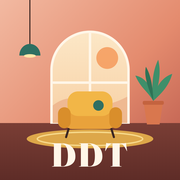
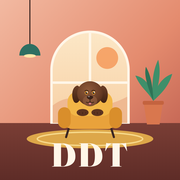
Devoirs DDT : chiens
Claude-Session: https://claude.ai/code/session_01PKGA1Hemj2n1h96h4dVzye

Changed region(s): [[0.3889, 0.4444, 0.6111, 0.6667]]

diff --git a/devoirs/ddt/index.html b/devoirs/ddt/index.html
@@ -109,9 +109,11 @@ svg { flex: 0 0 auto; }
 .animal { flex: 0 0 auto; display: block; }
 .chip .animal { width: 22px; height: 22px; margin-left: -4px; }
 .hw-meta .subj .animal { margin-right: 1px; }
-.animals { display: grid; grid-template-columns: repeat(4, 1fr); gap: 8px; }
+.animals { display: grid; grid-template-columns: repeat(3, 1fr); gap: 10px; }
 .animal-btn { border: 1.5px solid var(--line); background: var(--card); border-radius: 14px; padding: 8px 4px 6px; display: flex; flex-direction: column; align-items: center; gap: 4px; }
-.animal-btn small { font-size: 12px; font-weight: 700; color: var(--ink-2); }
+.animal-btn { position: relative; }
+.animal-btn small { font-size: 12px; font-weight: 700; color: var(--ink-2); text-align: center; line-height: 1.15; }
+.animal-btn .star { position: absolute; top: -8px; right: -4px; font-style: normal; font-size: 11px; font-weight: 800; background: var(--accent); color: #fff; border-radius: 999px; padding: 2px 7px; }
 .animal-btn[aria-pressed="true"] { border-color: var(--accent); box-shadow: 0 0 0 2px var(--accent); }
 
 /* Version DDT : tout en rose. */
@@ -279,23 +281,61 @@ const dueClass = (s, done) => (done || !s ? '' : daysLeft(s) < 0 ? 'late' : days
 const subject = (id) => db.subjects.find((x) => x.id === id) || null;
 // Texte lisible sur fond clair, dans la couleur de la matière.
 const inkOf = (c) => `color-mix(in srgb, ${c} 82%, #000)`;
-// ---------- Animaux (version DDT) : chaque matière a son petit animal ----------
+// ---------- Chiens (version DDT) : chaque matière a son chien, dans ses vraies couleurs ----------
 const ANIMALS_ON = document.documentElement.dataset.theme === 'ddt';
-const EYES = (y = 17, dx = 4.2) => `<circle cx="${16 - dx}" cy="${y}" r="1.6" fill="#2B1B24"/><circle cx="${16 + dx}" cy="${y}" r="1.6" fill="#2B1B24"/>`;
-const ANIMALS = {
-  chat: { name: 'Chat', svg: (c) => `<path d="M6 9 L9.5 3.5 L13 8.5 M26 9 L22.5 3.5 L19 8.5" fill="${c}" stroke="${c}" stroke-width="2" stroke-linejoin="round"/><circle cx="16" cy="17.5" r="10.5" fill="${c}"/>${EYES(16.5)}<path d="M14.6 20.2 h2.8 l-1.4 1.6z" fill="#F7A1BC"/><path d="M8 20h4M8 22.2l4-.8M24 20h-4M24 22.2l-4-.8" stroke="#fff" stroke-width=".9" stroke-linecap="round" opacity=".9"/>` },
-  lapin: { name: 'Lapin', svg: (c) => `<ellipse cx="11.5" cy="7.5" rx="3" ry="7" fill="${c}"/><ellipse cx="20.5" cy="7.5" rx="3" ry="7" fill="${c}"/><ellipse cx="11.5" cy="8" rx="1.4" ry="4.6" fill="#F7C6D6"/><ellipse cx="20.5" cy="8" rx="1.4" ry="4.6" fill="#F7C6D6"/><circle cx="16" cy="19.5" r="9.5" fill="${c}"/>${EYES(18.5, 3.8)}<ellipse cx="16" cy="22" rx="1.5" ry="1.1" fill="#F7A1BC"/>` },
-  renard: { name: 'Renard', svg: (c) => `<path d="M5 6 L11 10 L6 16 Z M27 6 L21 10 L26 16 Z" fill="${c}"/><path d="M5 11 Q16 6 27 11 Q25 24 16 28 Q7 24 5 11Z" fill="${c}"/><path d="M8.5 17 Q12 18 16 28 Q20 18 23.5 17 Q20 23 16 28 Q12 23 8.5 17Z" fill="#FFF4F2"/>${EYES(15.5, 4.5)}<circle cx="16" cy="25" r="1.4" fill="#2B1B24"/>` },
-  ours: { name: 'Ours', svg: (c) => `<circle cx="8" cy="9" r="4.2" fill="${c}"/><circle cx="24" cy="9" r="4.2" fill="${c}"/><circle cx="16" cy="18" r="11" fill="${c}"/>${EYES(16)}<ellipse cx="16" cy="22" rx="4.6" ry="3.5" fill="#FFF1E8"/><ellipse cx="16" cy="20.8" rx="1.7" ry="1.2" fill="#2B1B24"/>` },
-  panda: { name: 'Panda', svg: (c) => `<circle cx="8" cy="9" r="4.2" fill="${c}"/><circle cx="24" cy="9" r="4.2" fill="${c}"/><circle cx="16" cy="18" r="11" fill="#FFFDFB" stroke="${c}" stroke-width="1.4"/><ellipse cx="11.5" cy="17" rx="3" ry="3.8" fill="${c}" transform="rotate(-20 11.5 17)"/><ellipse cx="20.5" cy="17" rx="3" ry="3.8" fill="${c}" transform="rotate(20 20.5 17)"/><circle cx="11.8" cy="16.8" r="1.2" fill="#fff"/><circle cx="20.2" cy="16.8" r="1.2" fill="#fff"/><ellipse cx="16" cy="22.3" rx="1.7" ry="1.2" fill="#2B1B24"/>` },
-  hibou: { name: 'Hibou', svg: (c) => `<path d="M6 8 L10 11 M26 8 L22 11" stroke="${c}" stroke-width="2.4" stroke-linecap="round"/><path d="M6 12 Q6 6 16 7 Q26 6 26 12 V22 Q26 29 16 29 Q6 29 6 22Z" fill="${c}"/><circle cx="11.5" cy="15" r="4.3" fill="#FFF8F2"/><circle cx="20.5" cy="15" r="4.3" fill="#FFF8F2"/><circle cx="11.5" cy="15.2" r="2" fill="#2B1B24"/><circle cx="20.5" cy="15.2" r="2" fill="#2B1B24"/><path d="M14.5 19 h3 l-1.5 2.6z" fill="#F4B24A"/><path d="M11 24 q5 3 10 0" stroke="#FFF8F2" stroke-width="1.2" fill="none" opacity=".7"/>` },
-  grenouille: { name: 'Grenouille', svg: (c) => `<circle cx="10" cy="10" r="4.8" fill="${c}"/><circle cx="22" cy="10" r="4.8" fill="${c}"/><ellipse cx="16" cy="19" rx="12" ry="9" fill="${c}"/><circle cx="10" cy="9.6" r="2.6" fill="#fff"/><circle cx="22" cy="9.6" r="2.6" fill="#fff"/><circle cx="10" cy="9.8" r="1.4" fill="#2B1B24"/><circle cx="22" cy="9.8" r="1.4" fill="#2B1B24"/><path d="M9 20 Q16 26 23 20" stroke="#2B1B24" stroke-width="1.4" fill="none" stroke-linecap="round"/><circle cx="7.5" cy="18.5" r="1.6" fill="#F7A1BC" opacity=".8"/><circle cx="24.5" cy="18.5" r="1.6" fill="#F7A1BC" opacity=".8"/>` },
-  cochon: { name: 'Cochon', svg: (c) => `<path d="M6 9 L8 4.5 L12.5 7.5 M26 9 L24 4.5 L19.5 7.5" fill="${c}" stroke="${c}" stroke-width="2" stroke-linejoin="round"/><circle cx="16" cy="17.5" r="10.5" fill="${c}"/>${EYES(15)}<ellipse cx="16" cy="21" rx="4.6" ry="3.4" fill="#FFFFFF" opacity=".55"/><ellipse cx="14.4" cy="21" rx=".9" ry="1.3" fill="#2B1B24"/><ellipse cx="17.6" cy="21" rx=".9" ry="1.3" fill="#2B1B24"/>` },
+// Une tête de chien de face, avec du volume (dégradés), des yeux brillants et une truffe luisante.
+function dogSvg(k, d) {
+  const id = 'dg-' + k;
+  const ears = {
+    flop: `<path d="M13 22 C4 24 3 40 8 47 C12 51 17 46 18 38 C19 31 19 25 13 22Z" fill="url(#${id}e)"/><path d="M51 22 C60 24 61 40 56 47 C52 51 47 46 46 38 C45 31 45 25 51 22Z" fill="url(#${id}e)"/>`,
+    long: `<path d="M14 21 C3 24 2 46 8 55 C12 60 18 54 19 44 C20 33 20 25 14 21Z" fill="url(#${id}e)"/><path d="M50 21 C61 24 62 46 56 55 C52 60 46 54 45 44 C44 33 44 25 50 21Z" fill="url(#${id}e)"/>`,
+    prick: `<path d="M12 27 L15 6 C17 3 20 4 22 7 L29 19Z" fill="url(#${id}e)"/><path d="M52 27 L49 6 C47 3 44 4 42 7 L35 19Z" fill="url(#${id}e)"/><path d="M16 20 L17.5 10 L24 18Z M48 20 L46.5 10 L40 18Z" fill="${d.inner || '#E8B8A8'}" opacity=".8"/>`,
+    bat: `<path d="M11 28 C6 18 7 6 13 4 C19 3 25 12 27 20Z" fill="url(#${id}e)"/><path d="M53 28 C58 18 57 6 51 4 C45 3 39 12 37 20Z" fill="url(#${id}e)"/><path d="M13 21 C11 15 12 9 14.5 8 C17.5 8 21 13 22.5 18Z M51 21 C53 15 52 9 49.5 8 C46.5 8 43 13 41.5 18Z" fill="${d.inner || '#E3A99A'}" opacity=".85"/>`,
+    fold: `<path d="M14 18 C9 16 6 20 8 26 C10 31 15 31 19 26 C21 22 19 19 14 18Z" fill="url(#${id}e)"/><path d="M50 18 C55 16 58 20 56 26 C54 31 49 31 45 26 C43 22 45 19 50 18Z" fill="url(#${id}e)"/>`,
+  }[d.ear];
+  const snoutY = d.long ? 47 : 45;
+  return `<defs>
+    <radialGradient id="${id}h" cx=".42" cy=".35" r=".75"><stop offset="0" stop-color="${d.light}"/><stop offset=".65" stop-color="${d.fur}"/><stop offset="1" stop-color="${d.dark}"/></radialGradient>
+    <linearGradient id="${id}e" x1="0" y1="0" x2="0" y2="1"><stop offset="0" stop-color="${d.earLight || d.fur}"/><stop offset="1" stop-color="${d.earDark || d.dark}"/></linearGradient>
+    <radialGradient id="${id}m" cx=".5" cy=".3" r=".8"><stop offset="0" stop-color="${d.muzzleLight || d.muzzle}"/><stop offset="1" stop-color="${d.muzzle}"/></radialGradient>
+  </defs>
+  ${d.ear !== 'prick' && d.ear !== 'bat' ? ears : ''}
+  <ellipse cx="32" cy="34" rx="${d.wide ? 21 : 19.5}" ry="${d.long ? 19 : 18.5}" fill="url(#${id}h)"/>
+  ${d.ear === 'prick' || d.ear === 'bat' ? ears : ''}
+  ${d.extra || ''}
+  <ellipse cx="32" cy="${snoutY}" rx="${d.wide ? 12.5 : 11}" ry="${d.long ? 9.5 : 8.5}" fill="url(#${id}m)"/>
+  <path d="M24.5 30.2 Q27 28.3 29.2 30.4 M34.8 30.4 Q37 28.3 39.5 30.2" stroke="${d.brow || d.dark}" stroke-width="1.4" fill="none" stroke-linecap="round" opacity=".7"/>
+  <ellipse cx="26.6" cy="33" rx="2.7" ry="2.9" fill="${d.eye || '#2A1A10'}"/><ellipse cx="37.4" cy="33" rx="2.7" ry="2.9" fill="${d.eye || '#2A1A10'}"/>
+  ${d.eye && d.eye !== '#2A1A10' ? '<circle cx="26.6" cy="33.2" r="1.3" fill="#10141c"/><circle cx="37.4" cy="33.2" r="1.3" fill="#10141c"/>' : ''}
+  <circle cx="27.6" cy="32" r=".95" fill="#fff"/><circle cx="38.4" cy="32" r=".95" fill="#fff"/>
+  <path d="M27.3 ${snoutY - 6.5} Q32 ${snoutY - 8.8} 36.7 ${snoutY - 6.5} Q37.4 ${snoutY - 3.2} 32 ${snoutY - 1.6} Q26.6 ${snoutY - 3.2} 27.3 ${snoutY - 6.5}Z" fill="${d.nose || '#1E1512'}"/>
+  <ellipse cx="30.3" cy="${snoutY - 6.2}" rx="1.6" ry=".8" fill="#fff" opacity=".45"/>
+  <path d="M32 ${snoutY - 1.6} V${snoutY + 1.6} M32 ${snoutY + 1.6} Q29 ${snoutY + 4.2} 26.5 ${snoutY + 2.2} M32 ${snoutY + 1.6} Q35 ${snoutY + 4.2} 37.5 ${snoutY + 2.2}" stroke="${d.mouth || '#3A2418'}" stroke-width="1.1" fill="none" stroke-linecap="round"/>
+  ${d.tongue ? `<path d="M29.8 ${snoutY + 3.4} Q32 ${snoutY + 8.5} 34.2 ${snoutY + 3.4}Z" fill="#E77A8C"/>` : ''}`;
+}
+const DOGS = {
+  labrador_chocolat: { name: 'Labrador chocolat', star: true, ear: 'flop', fur: '#6B3E26', light: '#8E5A3B', dark: '#4A2716', earDark: '#3F2112', muzzle: '#7A4A30', muzzleLight: '#8F5C3E', nose: '#3B2218', eye: '#C4842F', brow: '#2E170C', tongue: true },
+  labrador_sable: { name: 'Labrador sable', ear: 'flop', fur: '#E2BE86', light: '#F1D6A8', dark: '#C79A5E', earDark: '#B98A50', muzzle: '#EBCB97', muzzleLight: '#F6E2BF', tongue: true },
+  labrador_noir: { name: 'Labrador noir', ear: 'flop', fur: '#2B2725', light: '#4A4440', dark: '#151312', earDark: '#0F0D0C', muzzle: '#35302D', muzzleLight: '#48413C', nose: '#0B0908', eye: '#9A6430', brow: '#000', mouth: '#000' },
+  golden: { name: 'Golden retriever', ear: 'flop', fur: '#D49A4E', light: '#E8BA74', dark: '#AE7330', earLight: '#C98B3F', earDark: '#9C6224', muzzle: '#E3B26E', muzzleLight: '#F0CD95', tongue: true },
+  berger: { name: 'Berger allemand', ear: 'prick', fur: '#C88A48', light: '#DDA466', dark: '#9C6327', earLight: '#3A2A1E', earDark: '#1E1610', muzzle: '#2A1F18', muzzleLight: '#4A372A', inner: '#B07A60', long: true,
+    extra: '<path d="M14 26 C18 15 26 12 32 13 C38 12 46 15 50 26 C44 21 38 20 32 22 C26 20 20 21 14 26Z" fill="#2A2019" opacity=".85"/>' },
+  husky: { name: 'Husky', ear: 'prick', fur: '#F2F2F0', light: '#FFFFFF', dark: '#C9CDD2', earLight: '#5A6068', earDark: '#363B42', muzzle: '#F6F6F4', muzzleLight: '#FFFFFF', eye: '#6FB4E6', inner: '#E9C7C2',
+    extra: '<path d="M13 30 C14 18 22 14 32 14 C42 14 50 18 51 30 C47 26 42 25 38.5 27.5 C36 25 34 24 32 26 C30 24 28 25 25.5 27.5 C22 25 17 26 13 30Z" fill="#4E555E"/><path d="M30 14.5 L32 24 L34 14.5Z" fill="#F6F6F4"/>' },
+  border_collie: { name: 'Border collie', ear: 'fold', fur: '#1F1C1B', light: '#3A3533', dark: '#0E0C0B', earDark: '#0A0908', muzzle: '#F4F1EC', muzzleLight: '#FFFFFF', eye: '#6B4423', brow: '#000',
+    extra: '<path d="M29.5 15 C31 15 33 15 34.5 15 L36 26 Q38 33 43 40 L21 40 Q26 33 28 26Z" fill="#F4F1EC"/>' },
+  beagle: { name: 'Beagle', ear: 'long', fur: '#C17A3A', light: '#D8955A', dark: '#9A5A24', earLight: '#8A4E22', earDark: '#5E3214', muzzle: '#F5EFE6', muzzleLight: '#FFFFFF',
+    extra: '<path d="M30 16 C31.3 16 32.7 16 34 16 L35 28 Q37 34 40 38 L24 38 Q27 34 29 28Z" fill="#F5EFE6"/>' },
+  bouledogue: { name: 'Bouledogue français', ear: 'bat', wide: true, fur: '#D9B07C', light: '#EACAA0', dark: '#B88A55', earDark: '#A87A48', muzzle: '#4A3A30', muzzleLight: '#6A5444', inner: '#D49C8E' },
+  teckel: { name: 'Teckel', ear: 'long', long: true, fur: '#A8552A', light: '#C46E3E', dark: '#7E3A18', earLight: '#94461F', earDark: '#5E2810', muzzle: '#B0602F', muzzleLight: '#C67646' },
+  shiba: { name: 'Shiba inu', ear: 'prick', fur: '#D9823C', light: '#E99B57', dark: '#B5621F', earLight: '#D07A35', earDark: '#A85A1C', muzzle: '#FBF1E4', muzzleLight: '#FFFFFF', inner: '#F3DCC8',
+    extra: '<ellipse cx="21" cy="40" rx="6.5" ry="5" fill="#FBF1E4"/><ellipse cx="43" cy="40" rx="6.5" ry="5" fill="#FBF1E4"/><ellipse cx="26" cy="28" rx="2.4" ry="1.4" fill="#FBF1E4" opacity=".9"/><ellipse cx="38" cy="28" rx="2.4" ry="1.4" fill="#FBF1E4" opacity=".9"/>' },
 };
-const ANIMAL_KEYS = Object.keys(ANIMALS);
-const animalOf = (s) => (ANIMALS[s.animal] ? s.animal : ANIMAL_KEYS[Math.max(0, db.subjects.indexOf(s)) % ANIMAL_KEYS.length]);
-const animalSvg = (key, color, size) => `<svg class="animal" viewBox="0 0 32 32" width="${size}" height="${size}" aria-hidden="true">${ANIMALS[key].svg(color)}</svg>`;
-// Le petit repère d'une matière : un point de couleur, ou son animal dans la version DDT.
+const ANIMALS = DOGS;
+const ANIMAL_KEYS = Object.keys(DOGS);
+const animalOf = (s) => (DOGS[s.animal] ? s.animal : ANIMAL_KEYS[Math.max(0, db.subjects.indexOf(s)) % ANIMAL_KEYS.length]);
+const animalSvg = (key, color, size) => `<svg class="animal" viewBox="0 0 64 64" width="${size}" height="${size}" aria-hidden="true">${dogSvg(key, DOGS[key])}</svg>`;
+// Le petit repère d'une matière : un point de couleur, ou son chien dans la version DDT.
 const mark = (s, size = 20) => (ANIMALS_ON && s ? animalSvg(animalOf(s), s.color, size) : '<i></i>');
 const subjStyle = (s) => (s ? `--c:${s.color};--c2:${inkOf(s.color)}` : '--c:#C9CCD8;--c2:var(--ink-2)');
 
@@ -823,12 +863,12 @@ function openSubject(id) {
       <input id="s-name" class="field" value="${esc(cur?.name || '')}" placeholder="ex. Maths" maxlength="40" autocomplete="off">
       <span class="label">Couleur</span>
       <div class="colors">${COLORS.map((c) => `<button type="button" class="color" style="--c:${c}" data-color="${c}" aria-label="Couleur" aria-pressed="${c === color}"></button>`).join('')}</div>
-      ${ANIMALS_ON ? '<span class="label">Animal</span><div class="animals" id="animals"></div>' : ''}
+      ${ANIMALS_ON ? '<span class="label">Chien</span><div class="animals" id="animals"></div>' : ''}
       <div class="actions"><button class="btn" type="submit">${cur ? 'Enregistrer' : 'Ajouter la matière'}</button>${cur ? '<button class="btn danger" type="button" data-del>Supprimer la matière</button>' : ''}</div>
     </form>`);
   const drawAnimals = () => {
     const box = back.querySelector('#animals');
-    if (box) box.innerHTML = ANIMAL_KEYS.map((k) => `<button type="button" class="animal-btn" data-animal="${k}" aria-pressed="${k === animal}" aria-label="${ANIMALS[k].name}">${animalSvg(k, color, 40)}<small>${ANIMALS[k].name}</small></button>`).join('');
+    if (box) box.innerHTML = ANIMAL_KEYS.map((k) => `<button type="button" class="animal-btn" data-animal="${k}" aria-pressed="${k === animal}" aria-label="${ANIMALS[k].name}">${animalSvg(k, color, 40)}<small>${ANIMALS[k].name}</small>${ANIMALS[k].star ? '<em class="star">La star</em>' : ''}</button>`).join('');
   };
   drawAnimals();
   back.addEventListener('click', (e) => {

diff --git a/devoirs/index.html b/devoirs/index.html
@@ -109,9 +109,11 @@ svg { flex: 0 0 auto; }
 .animal { flex: 0 0 auto; display: block; }
 .chip .animal { width: 22px; height: 22px; margin-left: -4px; }
 .hw-meta .subj .animal { margin-right: 1px; }
-.animals { display: grid; grid-template-columns: repeat(4, 1fr); gap: 8px; }
+.animals { display: grid; grid-template-columns: repeat(3, 1fr); gap: 10px; }
 .animal-btn { border: 1.5px solid var(--line); background: var(--card); border-radius: 14px; padding: 8px 4px 6px; display: flex; flex-direction: column; align-items: center; gap: 4px; }
-.animal-btn small { font-size: 12px; font-weight: 700; color: var(--ink-2); }
+.animal-btn { position: relative; }
+.animal-btn small { font-size: 12px; font-weight: 700; color: var(--ink-2); text-align: center; line-height: 1.15; }
+.animal-btn .star { position: absolute; top: -8px; right: -4px; font-style: normal; font-size: 11px; font-weight: 800; background: var(--accent); color: #fff; border-radius: 999px; padding: 2px 7px; }
 .animal-btn[aria-pressed="true"] { border-color: var(--accent); box-shadow: 0 0 0 2px var(--accent); }
 
 /* Version DDT : tout en rose. */
@@ -279,23 +281,61 @@ const dueClass = (s, done) => (done || !s ? '' : daysLeft(s) < 0 ? 'late' : days
 const subject = (id) => db.subjects.find((x) => x.id === id) || null;
 // Texte lisible sur fond clair, dans la couleur de la matière.
 const inkOf = (c) => `color-mix(in srgb, ${c} 82%, #000)`;
-// ---------- Animaux (version DDT) : chaque matière a son petit animal ----------
+// ---------- Chiens (version DDT) : chaque matière a son chien, dans ses vraies couleurs ----------
 const ANIMALS_ON = document.documentElement.dataset.theme === 'ddt';
-const EYES = (y = 17, dx = 4.2) => `<circle cx="${16 - dx}" cy="${y}" r="1.6" fill="#2B1B24"/><circle cx="${16 + dx}" cy="${y}" r="1.6" fill="#2B1B24"/>`;
-const ANIMALS = {
-  chat: { name: 'Chat', svg: (c) => `<path d="M6 9 L9.5 3.5 L13 8.5 M26 9 L22.5 3.5 L19 8.5" fill="${c}" stroke="${c}" stroke-width="2" stroke-linejoin="round"/><circle cx="16" cy="17.5" r="10.5" fill="${c}"/>${EYES(16.5)}<path d="M14.6 20.2 h2.8 l-1.4 1.6z" fill="#F7A1BC"/><path d="M8 20h4M8 22.2l4-.8M24 20h-4M24 22.2l-4-.8" stroke="#fff" stroke-width=".9" stroke-linecap="round" opacity=".9"/>` },
-  lapin: { name: 'Lapin', svg: (c) => `<ellipse cx="11.5" cy="7.5" rx="3" ry="7" fill="${c}"/><ellipse cx="20.5" cy="7.5" rx="3" ry="7" fill="${c}"/><ellipse cx="11.5" cy="8" rx="1.4" ry="4.6" fill="#F7C6D6"/><ellipse cx="20.5" cy="8" rx="1.4" ry="4.6" fill="#F7C6D6"/><circle cx="16" cy="19.5" r="9.5" fill="${c}"/>${EYES(18.5, 3.8)}<ellipse cx="16" cy="22" rx="1.5" ry="1.1" fill="#F7A1BC"/>` },
-  renard: { name: 'Renard', svg: (c) => `<path d="M5 6 L11 10 L6 16 Z M27 6 L21 10 L26 16 Z" fill="${c}"/><path d="M5 11 Q16 6 27 11 Q25 24 16 28 Q7 24 5 11Z" fill="${c}"/><path d="M8.5 17 Q12 18 16 28 Q20 18 23.5 17 Q20 23 16 28 Q12 23 8.5 17Z" fill="#FFF4F2"/>${EYES(15.5, 4.5)}<circle cx="16" cy="25" r="1.4" fill="#2B1B24"/>` },
-  ours: { name: 'Ours', svg: (c) => `<circle cx="8" cy="9" r="4.2" fill="${c}"/><circle cx="24" cy="9" r="4.2" fill="${c}"/><circle cx="16" cy="18" r="11" fill="${c}"/>${EYES(16)}<ellipse cx="16" cy="22" rx="4.6" ry="3.5" fill="#FFF1E8"/><ellipse cx="16" cy="20.8" rx="1.7" ry="1.2" fill="#2B1B24"/>` },
-  panda: { name: 'Panda', svg: (c) => `<circle cx="8" cy="9" r="4.2" fill="${c}"/><circle cx="24" cy="9" r="4.2" fill="${c}"/><circle cx="16" cy="18" r="11" fill="#FFFDFB" stroke="${c}" stroke-width="1.4"/><ellipse cx="11.5" cy="17" rx="3" ry="3.8" fill="${c}" transform="rotate(-20 11.5 17)"/><ellipse cx="20.5" cy="17" rx="3" ry="3.8" fill="${c}" transform="rotate(20 20.5 17)"/><circle cx="11.8" cy="16.8" r="1.2" fill="#fff"/><circle cx="20.2" cy="16.8" r="1.2" fill="#fff"/><ellipse cx="16" cy="22.3" rx="1.7" ry="1.2" fill="#2B1B24"/>` },
-  hibou: { name: 'Hibou', svg: (c) => `<path d="M6 8 L10 11 M26 8 L22 11" stroke="${c}" stroke-width="2.4" stroke-linecap="round"/><path d="M6 12 Q6 6 16 7 Q26 6 26 12 V22 Q26 29 16 29 Q6 29 6 22Z" fill="${c}"/><circle cx="11.5" cy="15" r="4.3" fill="#FFF8F2"/><circle cx="20.5" cy="15" r="4.3" fill="#FFF8F2"/><circle cx="11.5" cy="15.2" r="2" fill="#2B1B24"/><circle cx="20.5" cy="15.2" r="2" fill="#2B1B24"/><path d="M14.5 19 h3 l-1.5 2.6z" fill="#F4B24A"/><path d="M11 24 q5 3 10 0" stroke="#FFF8F2" stroke-width="1.2" fill="none" opacity=".7"/>` },
-  grenouille: { name: 'Grenouille', svg: (c) => `<circle cx="10" cy="10" r="4.8" fill="${c}"/><circle cx="22" cy="10" r="4.8" fill="${c}"/><ellipse cx="16" cy="19" rx="12" ry="9" fill="${c}"/><circle cx="10" cy="9.6" r="2.6" fill="#fff"/><circle cx="22" cy="9.6" r="2.6" fill="#fff"/><circle cx="10" cy="9.8" r="1.4" fill="#2B1B24"/><circle cx="22" cy="9.8" r="1.4" fill="#2B1B24"/><path d="M9 20 Q16 26 23 20" stroke="#2B1B24" stroke-width="1.4" fill="none" stroke-linecap="round"/><circle cx="7.5" cy="18.5" r="1.6" fill="#F7A1BC" opacity=".8"/><circle cx="24.5" cy="18.5" r="1.6" fill="#F7A1BC" opacity=".8"/>` },
-  cochon: { name: 'Cochon', svg: (c) => `<path d="M6 9 L8 4.5 L12.5 7.5 M26 9 L24 4.5 L19.5 7.5" fill="${c}" stroke="${c}" stroke-width="2" stroke-linejoin="round"/><circle cx="16" cy="17.5" r="10.5" fill="${c}"/>${EYES(15)}<ellipse cx="16" cy="21" rx="4.6" ry="3.4" fill="#FFFFFF" opacity=".55"/><ellipse cx="14.4" cy="21" rx=".9" ry="1.3" fill="#2B1B24"/><ellipse cx="17.6" cy="21" rx=".9" ry="1.3" fill="#2B1B24"/>` },
+// Une tête de chien de face, avec du volume (dégradés), des yeux brillants et une truffe luisante.
+function dogSvg(k, d) {
+  const id = 'dg-' + k;
+  const ears = {
+    flop: `<path d="M13 22 C4 24 3 40 8 47 C12 51 17 46 18 38 C19 31 19 25 13 22Z" fill="url(#${id}e)"/><path d="M51 22 C60 24 61 40 56 47 C52 51 47 46 46 38 C45 31 45 25 51 22Z" fill="url(#${id}e)"/>`,
+    long: `<path d="M14 21 C3 24 2 46 8 55 C12 60 18 54 19 44 C20 33 20 25 14 21Z" fill="url(#${id}e)"/><path d="M50 21 C61 24 62 46 56 55 C52 60 46 54 45 44 C44 33 44 25 50 21Z" fill="url(#${id}e)"/>`,
+    prick: `<path d="M12 27 L15 6 C17 3 20 4 22 7 L29 19Z" fill="url(#${id}e)"/><path d="M52 27 L49 6 C47 3 44 4 42 7 L35 19Z" fill="url(#${id}e)"/><path d="M16 20 L17.5 10 L24 18Z M48 20 L46.5 10 L40 18Z" fill="${d.inner || '#E8B8A8'}" opacity=".8"/>`,
+    bat: `<path d="M11 28 C6 18 7 6 13 4 C19 3 25 12 27 20Z" fill="url(#${id}e)"/><path d="M53 28 C58 18 57 6 51 4 C45 3 39 12 37 20Z" fill="url(#${id}e)"/><path d="M13 21 C11 15 12 9 14.5 8 C17.5 8 21 13 22.5 18Z M51 21 C53 15 52 9 49.5 8 C46.5 8 43 13 41.5 18Z" fill="${d.inner || '#E3A99A'}" opacity=".85"/>`,
+    fold: `<path d="M14 18 C9 16 6 20 8 26 C10 31 15 31 19 26 C21 22 19 19 14 18Z" fill="url(#${id}e)"/><path d="M50 18 C55 16 58 20 56 26 C54 31 49 31 45 26 C43 22 45 19 50 18Z" fill="url(#${id}e)"/>`,
+  }[d.ear];
+  const snoutY = d.long ? 47 : 45;
+  return `<defs>
+    <radialGradient id="${id}h" cx=".42" cy=".35" r=".75"><stop offset="0" stop-color="${d.light}"/><stop offset=".65" stop-color="${d.fur}"/><stop offset="1" stop-color="${d.dark}"/></radialGradient>
+    <linearGradient id="${id}e" x1="0" y1="0" x2="0" y2="1"><stop offset="0" stop-color="${d.earLight || d.fur}"/><stop offset="1" stop-color="${d.earDark || d.dark}"/></linearGradient>
+    <radialGradient id="${id}m" cx=".5" cy=".3" r=".8"><stop offset="0" stop-color="${d.muzzleLight || d.muzzle}"/><stop offset="1" stop-color="${d.muzzle}"/></radialGradient>
+  </defs>
+  ${d.ear !== 'prick' && d.ear !== 'bat' ? ears : ''}
+  <ellipse cx="32" cy="34" rx="${d.wide ? 21 : 19.5}" ry="${d.long ? 19 : 18.5}" fill="url(#${id}h)"/>
+  ${d.ear === 'prick' || d.ear === 'bat' ? ears : ''}
+  ${d.extra || ''}
+  <ellipse cx="32" cy="${snoutY}" rx="${d.wide ? 12.5 : 11}" ry="${d.long ? 9.5 : 8.5}" fill="url(#${id}m)"/>
+  <path d="M24.5 30.2 Q27 28.3 29.2 30.4 M34.8 30.4 Q37 28.3 39.5 30.2" stroke="${d.brow || d.dark}" stroke-width="1.4" fill="none" stroke-linecap="round" opacity=".7"/>
+  <ellipse cx="26.6" cy="33" rx="2.7" ry="2.9" fill="${d.eye || '#2A1A10'}"/><ellipse cx="37.4" cy="33" rx="2.7" ry="2.9" fill="${d.eye || '#2A1A10'}"/>
+  ${d.eye && d.eye !== '#2A1A10' ? '<circle cx="26.6" cy="33.2" r="1.3" fill="#10141c"/><circle cx="37.4" cy="33.2" r="1.3" fill="#10141c"/>' : ''}
+  <circle cx="27.6" cy="32" r=".95" fill="#fff"/><circle cx="38.4" cy="32" r=".95" fill="#fff"/>
+  <path d="M27.3 ${snoutY - 6.5} Q32 ${snoutY - 8.8} 36.7 ${snoutY - 6.5} Q37.4 ${snoutY - 3.2} 32 ${snoutY - 1.6} Q26.6 ${snoutY - 3.2} 27.3 ${snoutY - 6.5}Z" fill="${d.nose || '#1E1512'}"/>
+  <ellipse cx="30.3" cy="${snoutY - 6.2}" rx="1.6" ry=".8" fill="#fff" opacity=".45"/>
+  <path d="M32 ${snoutY - 1.6} V${snoutY + 1.6} M32 ${snoutY + 1.6} Q29 ${snoutY + 4.2} 26.5 ${snoutY + 2.2} M32 ${snoutY + 1.6} Q35 ${snoutY + 4.2} 37.5 ${snoutY + 2.2}" stroke="${d.mouth || '#3A2418'}" stroke-width="1.1" fill="none" stroke-linecap="round"/>
+  ${d.tongue ? `<path d="M29.8 ${snoutY + 3.4} Q32 ${snoutY + 8.5} 34.2 ${snoutY + 3.4}Z" fill="#E77A8C"/>` : ''}`;
+}
+const DOGS = {
+  labrador_chocolat: { name: 'Labrador chocolat', star: true, ear: 'flop', fur: '#6B3E26', light: '#8E5A3B', dark: '#4A2716', earDark: '#3F2112', muzzle: '#7A4A30', muzzleLight: '#8F5C3E', nose: '#3B2218', eye: '#C4842F', brow: '#2E170C', tongue: true },
+  labrador_sable: { name: 'Labrador sable', ear: 'flop', fur: '#E2BE86', light: '#F1D6A8', dark: '#C79A5E', earDark: '#B98A50', muzzle: '#EBCB97', muzzleLight: '#F6E2BF', tongue: true },
+  labrador_noir: { name: 'Labrador noir', ear: 'flop', fur: '#2B2725', light: '#4A4440', dark: '#151312', earDark: '#0F0D0C', muzzle: '#35302D', muzzleLight: '#48413C', nose: '#0B0908', eye: '#9A6430', brow: '#000', mouth: '#000' },
+  golden: { name: 'Golden retriever', ear: 'flop', fur: '#D49A4E', light: '#E8BA74', dark: '#AE7330', earLight: '#C98B3F', earDark: '#9C6224', muzzle: '#E3B26E', muzzleLight: '#F0CD95', tongue: true },
+  berger: { name: 'Berger allemand', ear: 'prick', fur: '#C88A48', light: '#DDA466', dark: '#9C6327', earLight: '#3A2A1E', earDark: '#1E1610', muzzle: '#2A1F18', muzzleLight: '#4A372A', inner: '#B07A60', long: true,
+    extra: '<path d="M14 26 C18 15 26 12 32 13 C38 12 46 15 50 26 C44 21 38 20 32 22 C26 20 20 21 14 26Z" fill="#2A2019" opacity=".85"/>' },
+  husky: { name: 'Husky', ear: 'prick', fur: '#F2F2F0', light: '#FFFFFF', dark: '#C9CDD2', earLight: '#5A6068', earDark: '#363B42', muzzle: '#F6F6F4', muzzleLight: '#FFFFFF', eye: '#6FB4E6', inner: '#E9C7C2',
+    extra: '<path d="M13 30 C14 18 22 14 32 14 C42 14 50 18 51 30 C47 26 42 25 38.5 27.5 C36 25 34 24 32 26 C30 24 28 25 25.5 27.5 C22 25 17 26 13 30Z" fill="#4E555E"/><path d="M30 14.5 L32 24 L34 14.5Z" fill="#F6F6F4"/>' },
+  border_collie: { name: 'Border collie', ear: 'fold', fur: '#1F1C1B', light: '#3A3533', dark: '#0E0C0B', earDark: '#0A0908', muzzle: '#F4F1EC', muzzleLight: '#FFFFFF', eye: '#6B4423', brow: '#000',
+    extra: '<path d="M29.5 15 C31 15 33 15 34.5 15 L36 26 Q38 33 43 40 L21 40 Q26 33 28 26Z" fill="#F4F1EC"/>' },
+  beagle: { name: 'Beagle', ear: 'long', fur: '#C17A3A', light: '#D8955A', dark: '#9A5A24', earLight: '#8A4E22', earDark: '#5E3214', muzzle: '#F5EFE6', muzzleLight: '#FFFFFF',
+    extra: '<path d="M30 16 C31.3 16 32.7 16 34 16 L35 28 Q37 34 40 38 L24 38 Q27 34 29 28Z" fill="#F5EFE6"/>' },
+  bouledogue: { name: 'Bouledogue français', ear: 'bat', wide: true, fur: '#D9B07C', light: '#EACAA0', dark: '#B88A55', earDark: '#A87A48', muzzle: '#4A3A30', muzzleLight: '#6A5444', inner: '#D49C8E' },
+  teckel: { name: 'Teckel', ear: 'long', long: true, fur: '#A8552A', light: '#C46E3E', dark: '#7E3A18', earLight: '#94461F', earDark: '#5E2810', muzzle: '#B0602F', muzzleLight: '#C67646' },
+  shiba: { name: 'Shiba inu', ear: 'prick', fur: '#D9823C', light: '#E99B57', dark: '#B5621F', earLight: '#D07A35', earDark: '#A85A1C', muzzle: '#FBF1E4', muzzleLight: '#FFFFFF', inner: '#F3DCC8',
+    extra: '<ellipse cx="21" cy="40" rx="6.5" ry="5" fill="#FBF1E4"/><ellipse cx="43" cy="40" rx="6.5" ry="5" fill="#FBF1E4"/><ellipse cx="26" cy="28" rx="2.4" ry="1.4" fill="#FBF1E4" opacity=".9"/><ellipse cx="38" cy="28" rx="2.4" ry="1.4" fill="#FBF1E4" opacity=".9"/>' },
 };
-const ANIMAL_KEYS = Object.keys(ANIMALS);
-const animalOf = (s) => (ANIMALS[s.animal] ? s.animal : ANIMAL_KEYS[Math.max(0, db.subjects.indexOf(s)) % ANIMAL_KEYS.length]);
-const animalSvg = (key, color, size) => `<svg class="animal" viewBox="0 0 32 32" width="${size}" height="${size}" aria-hidden="true">${ANIMALS[key].svg(color)}</svg>`;
-// Le petit repère d'une matière : un point de couleur, ou son animal dans la version DDT.
+const ANIMALS = DOGS;
+const ANIMAL_KEYS = Object.keys(DOGS);
+const animalOf = (s) => (DOGS[s.animal] ? s.animal : ANIMAL_KEYS[Math.max(0, db.subjects.indexOf(s)) % ANIMAL_KEYS.length]);
+const animalSvg = (key, color, size) => `<svg class="animal" viewBox="0 0 64 64" width="${size}" height="${size}" aria-hidden="true">${dogSvg(key, DOGS[key])}</svg>`;
+// Le petit repère d'une matière : un point de couleur, ou son chien dans la version DDT.
 const mark = (s, size = 20) => (ANIMALS_ON && s ? animalSvg(animalOf(s), s.color, size) : '<i></i>');
 const subjStyle = (s) => (s ? `--c:${s.color};--c2:${inkOf(s.color)}` : '--c:#C9CCD8;--c2:var(--ink-2)');
 
@@ -823,12 +863,12 @@ function openSubject(id) {
       <input id="s-name" class="field" value="${esc(cur?.name || '')}" placeholder="ex. Maths" maxlength="40" autocomplete="off">
       <span class="label">Couleur</span>
       <div class="colors">${COLORS.map((c) => `<button type="button" class="color" style="--c:${c}" data-color="${c}" aria-label="Couleur" aria-pressed="${c === color}"></button>`).join('')}</div>
-      ${ANIMALS_ON ? '<span class="label">Animal</span><div class="animals" id="animals"></div>' : ''}
+      ${ANIMALS_ON ? '<span class="label">Chien</span><div class="animals" id="animals"></div>' : ''}
       <div class="actions"><button class="btn" type="submit">${cur ? 'Enregistrer' : 'Ajouter la matière'}</button>${cur ? '<button class="btn danger" type="button" data-del>Supprimer la matière</button>' : ''}</div>
     </form>`);
   const drawAnimals = () => {
     const box = back.querySelector('#animals');
-    if (box) box.innerHTML = ANIMAL_KEYS.map((k) => `<button type="button" class="animal-btn" data-animal="${k}" aria-pressed="${k === animal}" aria-label="${ANIMALS[k].name}">${animalSvg(k, color, 40)}<small>${ANIMALS[k].name}</small></button>`).join('');
+    if (box) box.innerHTML = ANIMAL_KEYS.map((k) => `<button type="button" class="animal-btn" data-animal="${k}" aria-pressed="${k === animal}" aria-label="${ANIMALS[k].name}">${animalSvg(k, color, 40)}<small>${ANIMALS[k].name}</small>${ANIMALS[k].star ? '<em class="star">La star</em>' : ''}</button>`).join('');
   };
   drawAnimals();
   back.addEventListener('click', (e) => {
